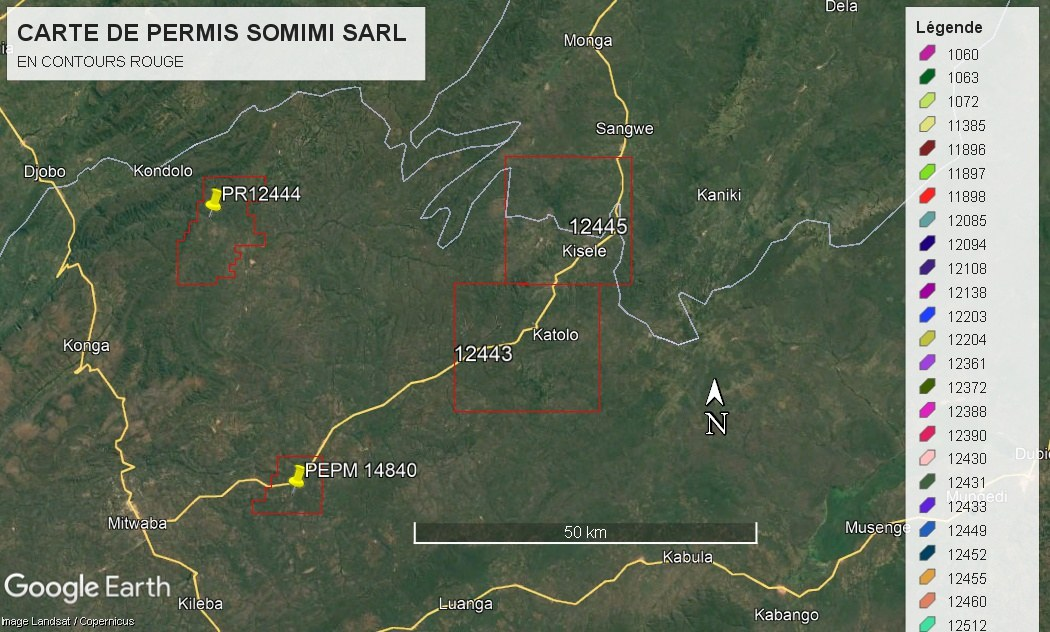
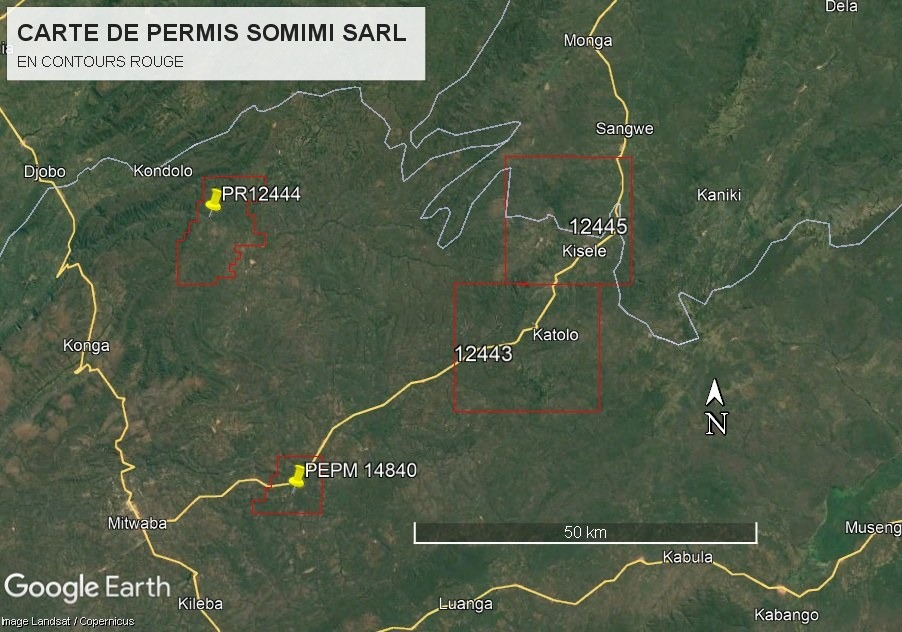
Crop Google Earth numbered legend strip from permit map

diff --git a/galerie.html b/galerie.html
@@ -47,29 +47,24 @@
 
   <h2 class="font-serif text-3xl text-navy mt-14">Terrain</h2>
   <div class="mt-6 grid sm:grid-cols-2 gap-4">
-    <a href="#" class="block" data-gallery-item data-full="images/terrain-eluvions.jpg" data-caption="Exploitation artisanale dans les éluvions — Mitwaba" tabindex="0">
-      <img src="images/terrain-eluvions.jpg" alt="Exploitation artisanale dans les éluvions — Mitwaba" width="1386" height="1040" loading="lazy" class="w-full aspect-[4/3] object-cover bg-paper">
-      <p class="mt-3 text-sm text-muted">Exploitation artisanale dans les éluvions</p>
+    <a href="#" class="block" data-gallery-item data-full="images/terrain-eluvions.jpg" data-caption="" tabindex="0">
+      <img src="images/terrain-eluvions.jpg" alt="" width="1386" height="1040" loading="lazy" class="w-full aspect-[4/3] object-cover bg-paper">
     </a>
-    <a href="#" class="block" data-gallery-item data-full="images/terrain-puits-pegmatite.jpg" data-caption="Puits de prospection en pegmatite altérée" tabindex="0">
-      <img src="images/terrain-puits-pegmatite.jpg" alt="Puits de prospection en pegmatite altérée" width="1349" height="1800" loading="lazy" class="w-full aspect-[4/3] object-cover object-top bg-paper">
-      <p class="mt-3 text-sm text-muted">Puits de prospection en pegmatite altérée</p>
+    <a href="#" class="block" data-gallery-item data-full="images/terrain-puits-pegmatite.jpg" data-caption="" tabindex="0">
+      <img src="images/terrain-puits-pegmatite.jpg" alt="" width="1349" height="1800" loading="lazy" class="w-full aspect-[4/3] object-cover object-top bg-paper">
     </a>
   </div>
 
   <h2 class="font-serif text-3xl text-navy mt-14">Minerais</h2>
   <div class="mt-6 grid sm:grid-cols-3 gap-4">
-    <a href="#" class="block" data-gallery-item data-full="images/echantillon-etain.png" data-caption="Échantillon d’étain (cassitérite)" tabindex="0">
-      <img src="images/echantillon-etain.png" alt="Échantillon d’étain (cassitérite)" width="800" height="800" loading="lazy" class="w-full aspect-square object-contain bg-paper border border-line p-4">
-      <p class="mt-3 text-sm text-muted">Étain (cassitérite)</p>
+    <a href="#" class="block" data-gallery-item data-full="images/echantillon-etain.png" data-caption="" tabindex="0">
+      <img src="images/echantillon-etain.png" alt="" width="800" height="800" loading="lazy" class="w-full aspect-square object-contain bg-paper border border-line p-4">
     </a>
-    <a href="#" class="block" data-gallery-item data-full="images/echantillon-tantale.png" data-caption="Échantillon de tantale (colombo-tantalite)" tabindex="0">
-      <img src="images/echantillon-tantale.png" alt="Échantillon de tantale (colombo-tantalite)" width="800" height="800" loading="lazy" class="w-full aspect-square object-contain bg-paper border border-line p-4">
-      <p class="mt-3 text-sm text-muted">Tantale (colombo-tantalite)</p>
+    <a href="#" class="block" data-gallery-item data-full="images/echantillon-tantale.png" data-caption="" tabindex="0">
+      <img src="images/echantillon-tantale.png" alt="" width="800" height="800" loading="lazy" class="w-full aspect-square object-contain bg-paper border border-line p-4">
     </a>
-    <a href="#" class="block" data-gallery-item data-full="images/echantillon-tungstene.png" data-caption="Échantillon de tungstène (wolframite)" tabindex="0">
-      <img src="images/echantillon-tungstene.png" alt="Échantillon de tungstène (wolframite)" width="800" height="800" loading="lazy" class="w-full aspect-square object-contain bg-paper border border-line p-4">
-      <p class="mt-3 text-sm text-muted">Tungstène (wolframite)</p>
+    <a href="#" class="block" data-gallery-item data-full="images/echantillon-tungstene.png" data-caption="" tabindex="0">
+      <img src="images/echantillon-tungstene.png" alt="" width="800" height="800" loading="lazy" class="w-full aspect-square object-contain bg-paper border border-line p-4">
     </a>
   </div>
 </main>

diff --git a/activites.html b/activites.html
@@ -58,7 +58,6 @@
         loading="lazy"
         class="w-full border border-line bg-paper object-contain"
       >
-      <figcaption class="mt-3 text-sm text-muted">Carte des permis SOMIMI SARL — contours rouges (échelle indicative 50&nbsp;km).</figcaption>
     </figure>
   </section>
 
@@ -74,17 +73,7 @@
         loading="lazy"
         class="w-full border border-line bg-paper object-contain"
       >
-      <figcaption class="mt-3 text-sm text-muted">Voies d’accès du PR&nbsp;12444 — piste vers Kilungu, Pulumbe, Kamabwe et Tenke.</figcaption>
     </figure>
-    <aside class="mt-6 border-t border-line pt-6" aria-label="Légende des voies d’accès">
-      <p class="text-xs uppercase tracking-widest text-muted">Légende</p>
-      <ul class="mt-4 grid sm:grid-cols-2 gap-x-10 gap-y-3 text-sm text-muted">
-        <li class="flex items-center gap-3"><span class="inline-block w-8 h-0.5 border-t-2 border-[#E04545] shrink-0" aria-hidden="true"></span>Périmètre du PR&nbsp;12444</li>
-        <li class="flex items-center gap-3"><span class="inline-block w-8 h-1 bg-[#2B6CB0] shrink-0" aria-hidden="true"></span>Piste d’accès aux sites</li>
-        <li class="flex items-center gap-3"><span class="inline-block w-3 h-3 bg-[#E04545] shrink-0" aria-hidden="true"></span>Sites miniers</li>
-        <li class="flex items-center gap-3"><span class="inline-block w-3 h-3 rounded-full bg-[#3CB27A] shrink-0" aria-hidden="true"></span>Repère kilométrique (21&nbsp;km)</li>
-      </ul>
-    </aside>
   </section>
 
   <section class="mt-16" aria-labelledby="activite-terrain">
@@ -99,7 +88,6 @@
         loading="lazy"
         class="w-full border border-line bg-paper object-contain"
       >
-      <figcaption class="mt-3 text-sm text-muted">PR&nbsp;12443 — sites miniers artisanaux (Kabibio, Kansanga, Kakimbeji, Dibwa…).</figcaption>
     </figure>
     <p class="mt-8 text-sm text-muted"><a href="galerie.html" class="text-[#1E4D7B]">Voir les photos terrain dans la Galerie</a></p>
   </section>
@@ -125,7 +113,6 @@
           loading="lazy"
           class="w-full border border-line bg-paper object-contain"
         >
-        <figcaption class="mt-3 text-sm text-muted">Teneur en Sn — sol en 10&nbsp;ppm.</figcaption>
       </figure>
       <figure>
         <img
@@ -136,7 +123,6 @@
           loading="lazy"
           class="w-full border border-line bg-paper object-contain"
         >
-        <figcaption class="mt-3 text-sm text-muted">Teneur en Ta — sol en 10&nbsp;ppm.</figcaption>
       </figure>
     </div>
     <figure class="mt-10">
@@ -148,7 +134,6 @@
         loading="lazy"
         class="w-full border border-line bg-paper object-contain"
       >
-      <figcaption class="mt-3 text-sm text-muted">Carte gitologique du PEPM&nbsp;14840 (contexte des permis SOMIMI).</figcaption>
     </figure>
   </section>
 </main>
